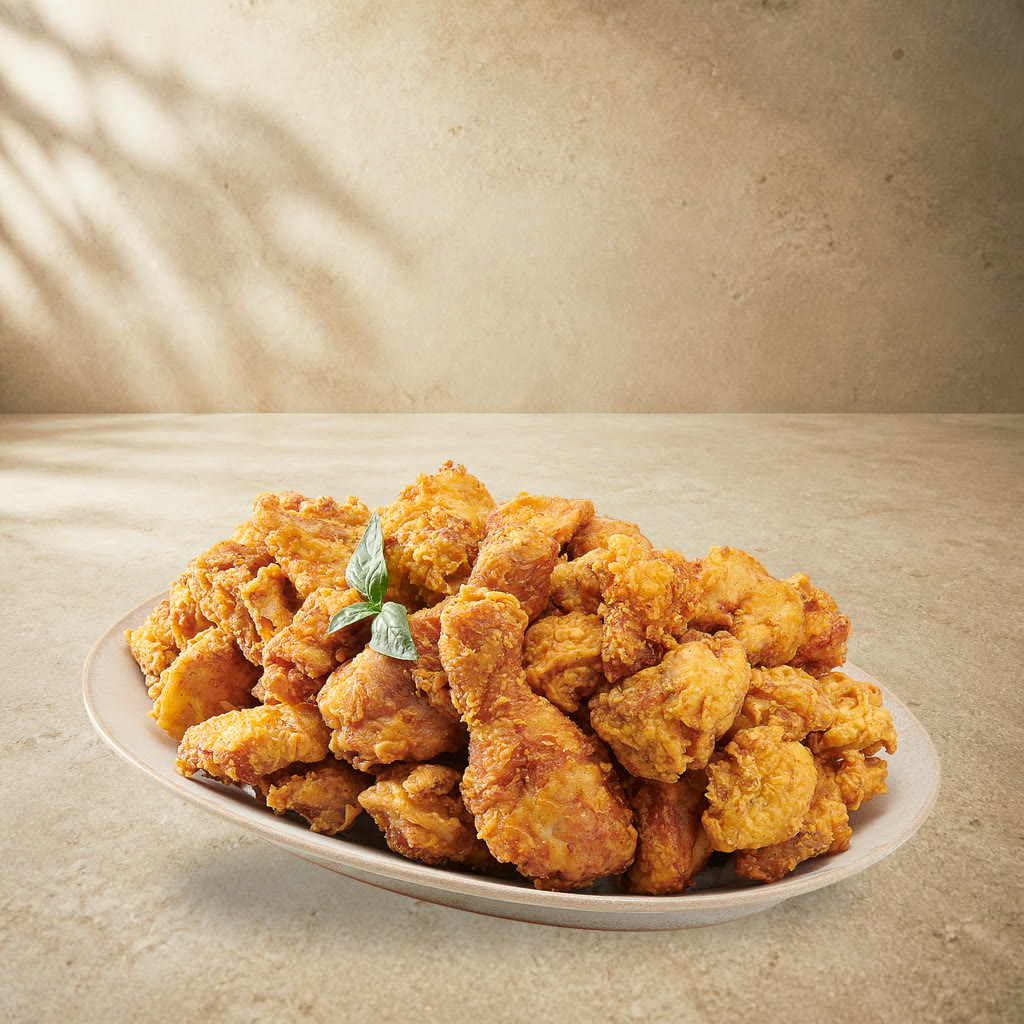
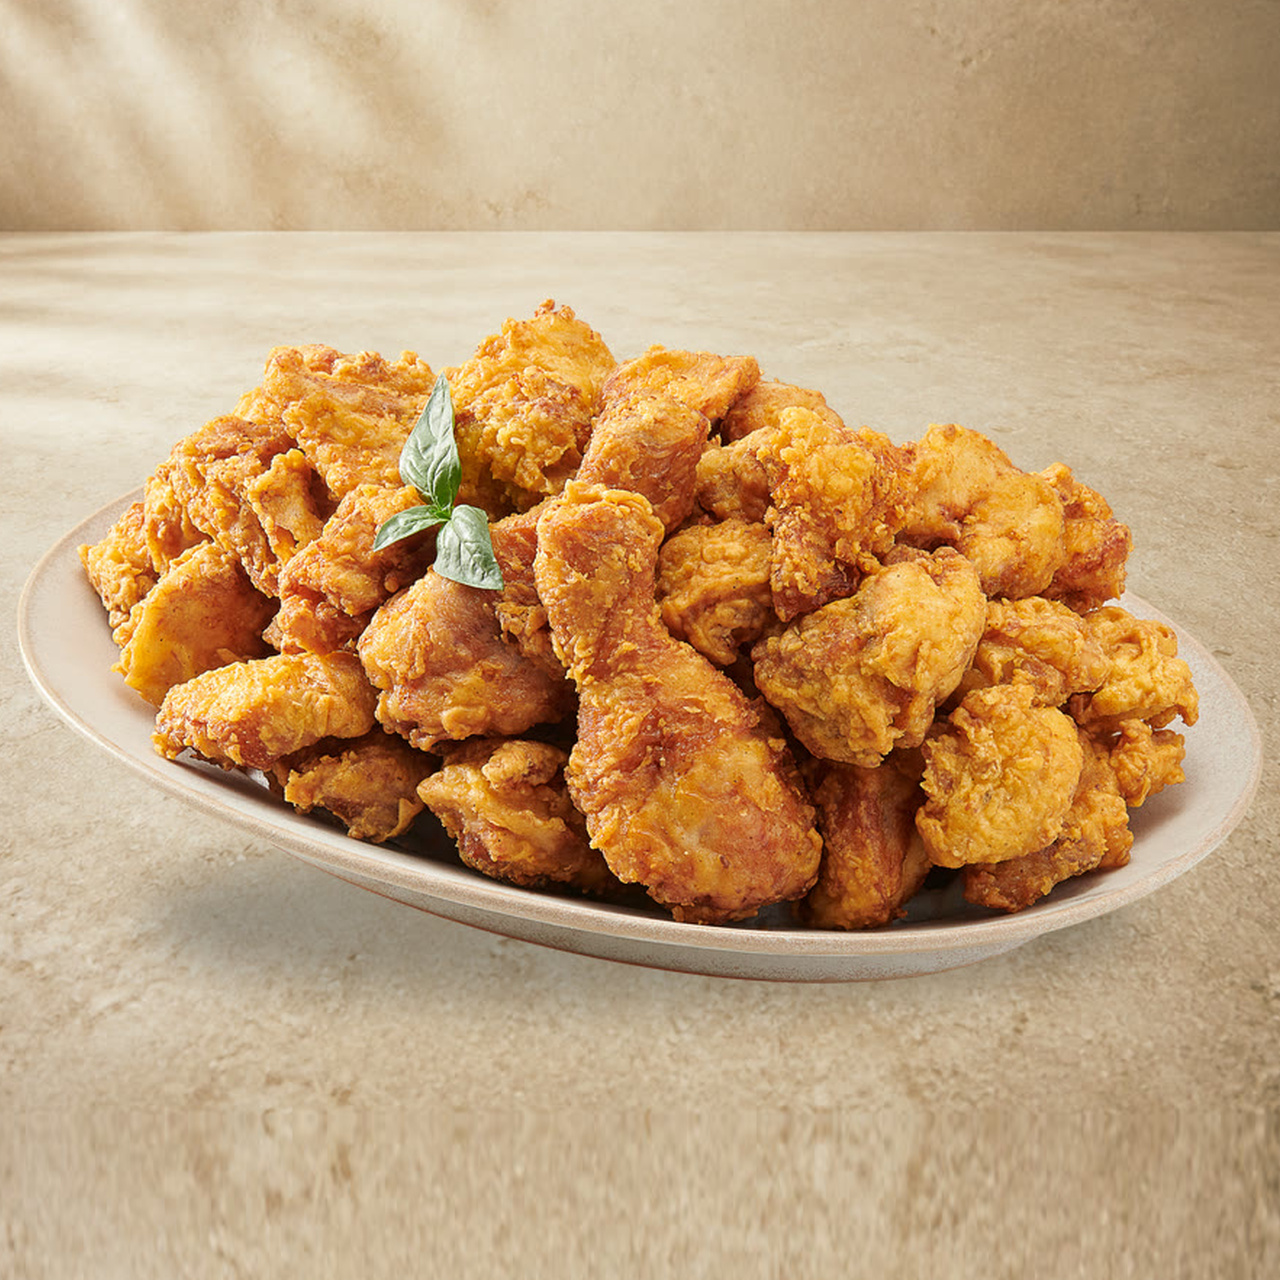
Refine menu imagery and half-pizza options

diff --git a/tablet-preview.html b/tablet-preview.html
@@ -95,7 +95,7 @@ html[lang="zh"] body,html[lang="zh"] button,html[lang="zh"] input{font-family:"M
 <div class="dialog-layer" id="successModal" aria-hidden="true">
  <section class="dialog-panel success-panel" role="dialog" aria-modal="true" aria-labelledby="successTitle"><div class="success-icon">✓</div><h2 id="successTitle">주문을 전송했습니다</h2><p id="successMessage">주방에서 주문을 확인하고 있습니다.</p><div class="order-receipt"><div class="receipt-box"><span id="successTableLabel">테이블</span><strong id="successTable">-</strong></div><div class="receipt-box"><span id="successTotalLabel">주문 금액</span><strong id="successTotal">0 ₫</strong></div></div><button class="success-done" id="successDone" type="button" onclick="finishOrder()">확인</button></section>
 </div>
-<script src="assets/menu-images.js?v=20260830-content-v5"></script>
+<script src="assets/menu-images.js?v=20260830-visual-option-fix-v6"></script>
 <script src="assets/table-layout.js"></script>
 <script src="assets/option-order.js"></script>
 <script>
@@ -397,7 +397,9 @@ function updateOptionSummary(){
  document.getElementById('optionExtraPrice').textContent=words[lang].extra+' · '+(extra?'+'+money(extra):money(0));
  document.getElementById('optionTotalPrice').textContent=money((Number(optionDraft.menu.price)||0)+extra);
  optionDraft.groups.forEach((group,index)=>{const limits=optionLimits(group),selected=optionDraft.selections[index].length,rule=document.querySelector(`[data-option-rule="${index}"]`),section=document.querySelector(`.option-group[data-group-index="${index}"]`);if(rule)rule.textContent=optionRuleText(group)+' · '+words[lang].selectedCount.replace('{selected}',selected).replace('{max}',limits.max);if(selected>=limits.min)section?.classList.remove('invalid');if(limits.max>1)document.querySelectorAll(`#optionGroups input[name="option-group-${index}"]`).forEach(input=>input.disabled=selected>=limits.max&&!input.checked)});
- document.getElementById('optionConfirm').setAttribute('aria-disabled',String(!optionDraftValid()));
+ const optionConfirm=document.getElementById('optionConfirm'),invalid=!optionDraftValid();
+ optionConfirm.disabled=invalid;
+ optionConfirm.setAttribute('aria-disabled',String(invalid));
 }
 function closeOptionModal(){
  deactivateDialogLayer(document.getElementById('optionModal'));optionDraft=null;

diff --git a/cloudflare-order-worker/test/table-layout.test.js b/cloudflare-order-worker/test/table-layout.test.js
@@ -367,6 +367,28 @@ test('the checked-in CUKCUK table QR snapshot publishes the polished 14-category
     assert.equal(menu.optionTemplateIds.length, 1, `${code} should expose one option group`);
     assert.deepEqual(menu.optionRules[menu.optionTemplateIds[0]], { required: true, minSelections, maxSelections });
   }
+  const halfPizzaTemplateId = '4a947b5f-0eb9-4c88-87b2-94debe05a41d';
+  for (const code of ['SPACE111', 'SPACE112', 'SPACE113', 'SPACE114', 'SPACE115']) {
+    const menu = result.menus.find(item => item.cukcukCode === code);
+    assert.deepEqual(menu.optionTemplateIds, [halfPizzaTemplateId], `${code} should expose the shared pizza-choice group`);
+    assert.deepEqual(menu.optionRules[halfPizzaTemplateId], { required: true, minSelections: 2, maxSelections: 2 });
+  }
+  assert.deepEqual(result.menus.find(menu => menu.cukcukCode === '(A01) Sapporo 1t1 640ml').subtitle, {
+    names: {
+      ko: '해피아워 이벤트 · 매일 18:00까지 1+1',
+      vi: 'Happy Hour · Mua 1 tặng 1 đến 18:00 mỗi ngày',
+      zh: '欢乐时光活动 · 每天18:00前买一送一',
+      en: 'Happy Hour · Buy 1, get 1 free until 18:00 daily'
+    },
+    tone: 'danger'
+  });
   assert.equal(result.menus.some(menu => menu.available && Number(menu.price) === 0 && menu.optionTemplateIds.length === 0), false);
   assert.equal(result.menus.some(menu => /burger|버거/i.test(`${menu.cukcukCode} ${menu.names?.ko || ''}`)), false);
+});
+
+test('the tablet disables the add-to-cart button until required option counts are valid', () => {
+  const html = fs.readFileSync(new URL('../../tablet-preview.html', import.meta.url), 'utf8');
+
+  assert.match(html, /optionConfirm\.disabled=invalid/);
+  assert.match(html, /optionConfirm\.setAttribute\('aria-disabled',String\(invalid\)\)/);
 });

diff --git a/assets/menu-images.js b/assets/menu-images.js
@@ -8,7 +8,7 @@ const MENU_QR_ADDED_IMAGE_IDS=new Set(`08b4aba2-4116-4148-b2a9-763c5d72d543 3b52
 const MENU_QR_ADDED_JPG_IDS=new Set(`6a4fc8cd-4937-46f0-990c-536bdffb1de3`.split(' '));
 MENU_QR_ADDED_IMAGE_IDS.forEach(id=>MENU_IMAGE_IDS.add(id));
 MENU_QR_ADDED_JPG_IDS.forEach(id=>MENU_JPG_IDS.add(id));
-const MENU_IMAGE_REVISION='20260830-full-refresh-v5';
+const MENU_IMAGE_REVISION='20260830-visual-option-fix-v6';
 const MENU_FORCE_PNG_IDS=new Set(`1644c776-3499-42d0-a911-ab8152608195`.split(' '));
 const MENU_FORCE_JPG_IDS=new Set(`2813d1e7-250b-49ae-9f76-e5b40f451492 45a0262c-d9f7-4b8b-a937-542d81c32e95`.split(' '));
 function menuImage(id){if(!MENU_IMAGE_IDS.has(id))return'';const extension=MENU_FORCE_PNG_IDS.has(id)?'png':MENU_FORCE_JPG_IDS.has(id)||MENU_JPG_IDS.has(id)||MENU_GENERATED_JPG_IDS.has(id)||MENU_REFRESHED_JPG_IDS.has(id)||MENU_REFRAMED_JPG_IDS.has(id)||MENU_CROPPED_JPG_IDS.has(id)?'jpg':'png';return`assets/menu/${id}.${extension}?asset=${MENU_IMAGE_REVISION}`}

diff --git a/service-worker.js b/service-worker.js
@@ -1,4 +1,4 @@
-const CACHE_VERSION = 'dabang-tablet-v14';
+const CACHE_VERSION = 'dabang-tablet-v15';
 const SHELL_CACHE = `${CACHE_VERSION}-shell`;
 const RUNTIME_CACHE = `${CACHE_VERSION}-runtime`;
 const APP_SHELL = [
@@ -6,7 +6,7 @@ const APP_SHELL = [
   './manifest.webmanifest',
   './assets/table-layout.js',
   './assets/option-order.js',
-  './assets/menu-images.js?v=20260830-content-v5',
+  './assets/menu-images.js?v=20260830-visual-option-fix-v6',
   './assets/brand/dabang-logo.png',
   './assets/pwa/icon-32.png',
   './assets/pwa/icon-180.png',

diff --git a/docs/STORE_HANDOFF.md b/docs/STORE_HANDOFF.md
@@ -1,6 +1,41 @@
 # 매장 노트북 인계 — 다방 테이블오더
 
-> 최신 상태는 바로 아래 `2026-08-30 진행 상태`다. 그 아래의 2026-08-29 내용은 당시 기록으로 보존한다.
+> 최신 상태는 바로 아래 `2026-08-30 추가 보정 상태`다. 그 아래의 같은 날 진행 상태와 2026-08-29 내용은 당시 기록으로 보존한다.
+
+## 2026-08-30 추가 보정 상태
+
+- 로컬 공용 기준 경로: `F:\Codex 공동작업\매장운영총괄`
+- 이번 작업 트리: `F:\Codex 공동작업\매장운영총괄\work\dabang-visual-option-fix`
+- 상태: **메뉴 사진 14개 추가 보정·복원, 반반피자 5개 옵션 수정, 사포로 1+1 안내 반영 후 최종 통합·배포 확인 대기**
+- 폐기된 이전 동기화 경로는 작업·인계 경로로 사용하거나 다시 만들지 않는다.
+
+### 메뉴 사진 14개 추가 보정·복원
+
+사용자가 지적한 카드 안 음식 크기와 중심 배치를 맞추고, 원본 복원을 요청한 메뉴는 생성 이미지 대신 검증된 이전 원본으로 되돌렸다.
+
+- 크기·중앙 배치·배경 보정: 윙봉 떠까, 치피 세트 M, 치피 세트 L, 고추마늘간장 치킨, 후라이드 치킨
+- 날개치킨 통일 보정: 간장 윙봉, 허니 윙봉, 레드 윙봉
+- 인물·브랜드가 덜 잘리도록 여백 보정: 처음처럼, 선양 소주, 선양 오크 소주
+- 이전 원본으로 정확히 복원: 마라 감자 웨지, 펩시 제로, 치즈 오븐 스파게티
+
+음식·제품·인물 자체는 기존 원본 픽셀을 우선 사용했다. FLUX는 음식이 없는 빈 상판 배경 1장에만 사용했으며, `F:\Codex 공동작업\매장운영총괄\bfl.env`의 `BFL_API_KEY`를 실행 중에만 읽었다. 키 값은 메시지·로그·코드·Git에 출력하거나 저장하지 않았다.
+
+### 반반피자 옵션·사포로 1+1
+
+- 태블릿은 반반피자 `SPACE111`~`SPACE115`에서 공통 피자 맛 9개 중 **정확히 2개**를 골라야 장바구니 버튼이 활성화되도록 고정했다.
+- CUKCUK 관리자에서도 위 5개 메뉴를 각각 저장한 뒤 다시 열어 `9개 선택지 / 최대 2개 / 필수`를 확인했다. CUKCUK의 필수 설정은 최소 1개를 뜻하므로, 정확히 2개 강제는 태블릿 쪽 검증이 보완한다.
+- 사포로 1+1에는 한국어·베트남어·중국어·영어로 매일 18:00까지 진행하는 해피아워 안내를 추가했고, 태블릿에서는 경고색 부제목으로 표시한다.
+- CUKCUK의 다른 반반·세트·토핑 옵션도 읽기 전용으로 폭넓게 점검했지만, 이번에는 반반피자 5개 외에 일괄 규칙 변경을 하지 않았다. 나머지는 품목별 의도를 사용자에게 다시 확인한 뒤 별도 반영한다.
+
+### 이번 추가 보정 검증
+
+- 메뉴 112, 이미지 매핑 133, 이미지 파일 161
+- 이미지 매핑 누락 0, 파일 누락 0, 고아 이미지 0
+- 옵션·레이아웃·주문 보호 테스트 38개 통과, 실패 0
+- JavaScript 구문 검사와 `git diff --check` 통과
+- 실제 주문·결제는 제출하지 않았고, 주방 물리 영수증 출력도 시험하지 않았다.
+
+처음처럼 사진은 원본 자체에서 머리 위쪽이 이미 일부 잘려 있어 새 얼굴이나 머리카락을 생성하지 않았다. 카드 크롭으로 더 잘리지 않도록 배치만 보정했으며, 완전한 전신·머리 사진이 필요하면 새 원본을 받아 교체해야 한다.
 
 ## 2026-08-30 진행 상태
 
@@ -43,7 +78,8 @@
 - 참이슬 프레시, 선양 소주, 선양 오크 소주
 - 조미 오징어, 촉촉 반건조 오징어, 클래식 쥐포
 
-사진 투입 폴더: `F:\OneDrive\수회\Documents\매장운영총괄\사진_추가로_필요한_메뉴`
+사진·작업자료 기준 루트: `F:\Codex 공동작업\매장운영총괄`
+과거 사진 투입 경로는 폐기됐으므로 사용하거나 다시 만들지 않는다.
 
 ### 캐시·화면 안전
 
@@ -167,7 +203,9 @@ Codex 내장 이미지 생성 기능으로 메뉴 카드용 1:1 사진을 만들
 
 ## 매장 노트북에서 이어서 작업
 
-코드는 OneDrive가 아니라 로컬 저장소 `C:\Codex\repos\dabang`에서 작업한다.
+공용 작업자료와 프로젝트 인계는 `F:\Codex 공동작업\매장운영총괄`을 기준으로 한다. 이번 추가 보정 작업 트리는 `F:\Codex 공동작업\매장운영총괄\work\dabang-visual-option-fix`이며, 폐기된 이전 동기화 경로는 사용하지 않는다.
+
+Git 기준 저장소는 `C:\Codex\repos\dabang`이다.
 
 저장소가 이미 있으면 삭제하거나 다시 clone하지 않는다.
 
